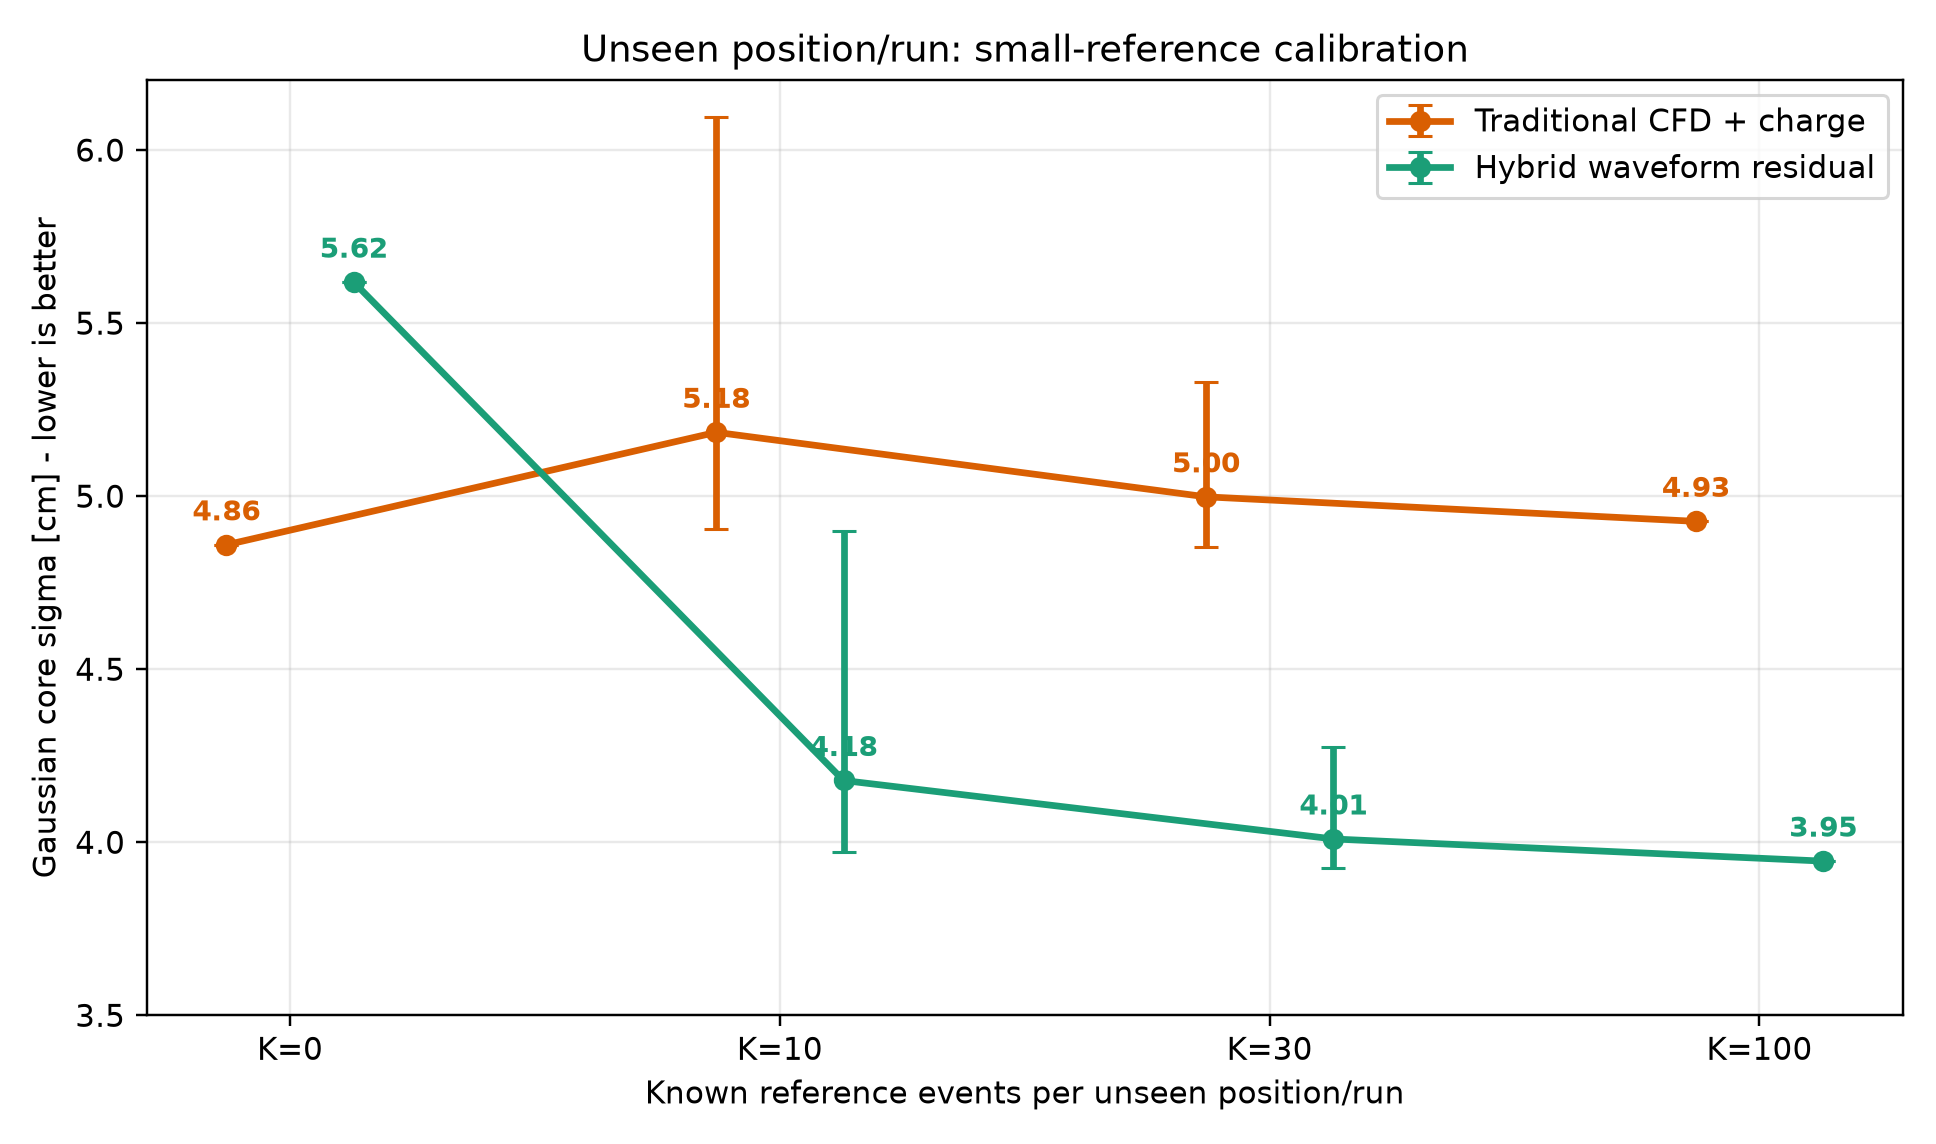
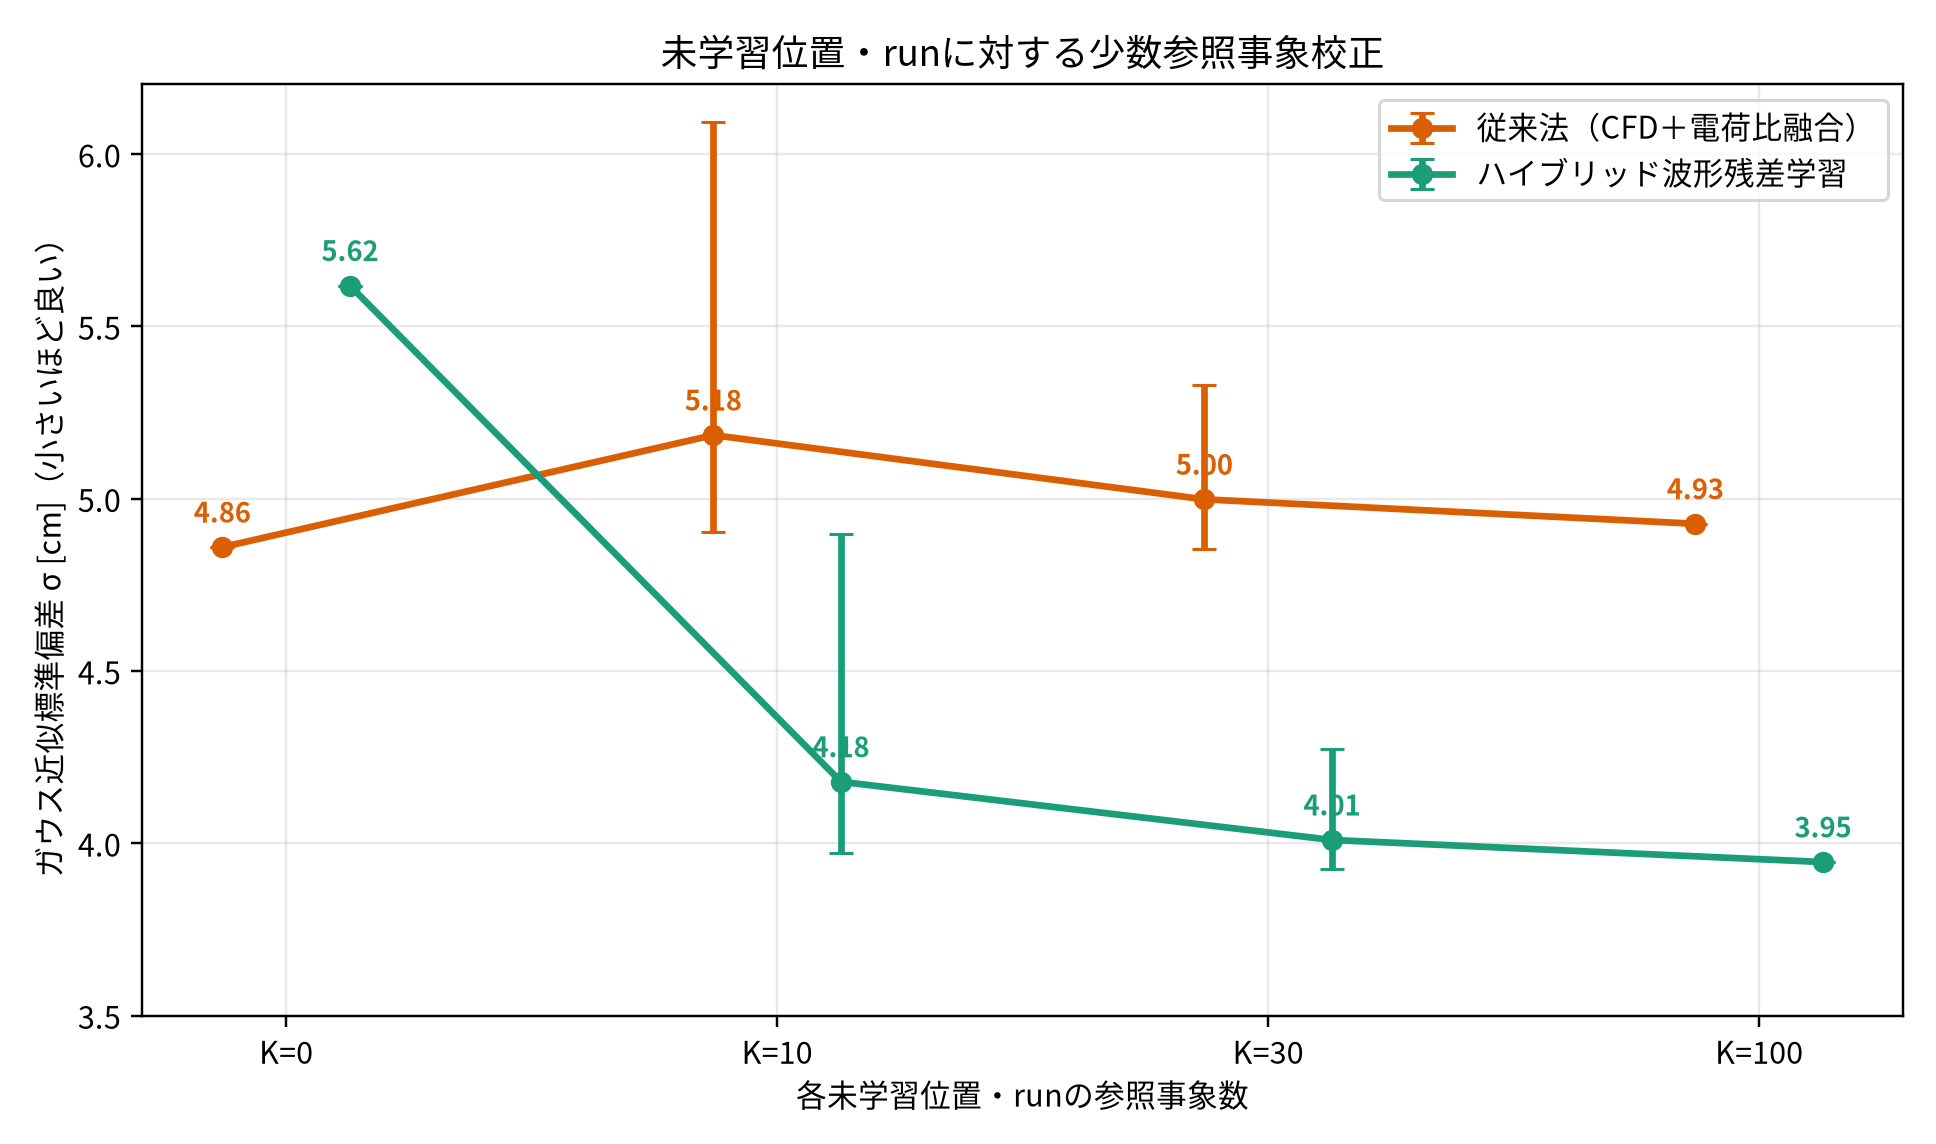
.

diff --git a/Scintillator_Project/src/scripts/build_ohba_hybrid_report.py b/Scintillator_Project/src/scripts/build_ohba_hybrid_report.py
@@ -45,8 +45,8 @@ def draw_calibration_transfer(rows: list[dict[str, object]], output: Path) -> No
     offsets = (-0.13, 0.13)
     fig, ax = plt.subplots(figsize=(8.8, 5.2))
     for (label, color, key), offset in zip((
-        ("Traditional CFD + charge", "#d95f02", "traditional_sigma_cm"),
-        ("Hybrid waveform residual", "#1b9e77", "hybrid_sigma_cm"),
+        ("従来法（CFD＋電荷比融合）", "#d95f02", "traditional_sigma_cm"),
+        ("ハイブリッド波形残差学習", "#1b9e77", "hybrid_sigma_cm"),
     ), offsets):
         stats = np.asarray([row[key] for row in rows], dtype=np.float64)
         median = stats[:, 1]
@@ -57,9 +57,9 @@ def draw_calibration_transfer(rows: list[dict[str, object]], output: Path) -> No
             ax.annotate(f"{value:.2f}", (coordinate, value), xytext=(0, 8), textcoords="offset points",
                         ha="center", color=color, fontsize=9, fontweight="bold")
     ax.set_xticks(x, [f"K={value}" for value in k])
-    ax.set_xlabel("Known reference events per unseen position/run")
-    ax.set_ylabel("Gaussian core sigma [cm] - lower is better")
-    ax.set_title("Unseen position/run: small-reference calibration")
+    ax.set_xlabel("各未学習位置・runの参照事象数")
+    ax.set_ylabel("ガウス近似標準偏差 σ [cm]（小さいほど良い）")
+    ax.set_title("未学習位置・runに対する少数参照事象校正")
     ax.set_ylim(bottom=3.5)
     ax.grid(alpha=0.28)
     ax.legend()
@@ -77,17 +77,17 @@ def draw_position_holdout(audit: dict[str, object], output: Path) -> None:
     traditional_bias = np.asarray([row["traditional_bias_cm"] for row in rows], dtype=float)
     bias = np.asarray([row["hybrid_bias_cm"] for row in rows], dtype=float)
     fig, axes = plt.subplots(2, 1, figsize=(10.2, 6.8), sharex=True, gridspec_kw={"height_ratios": [2, 1]})
-    axes[0].plot(x, traditional, "o-", color="#d95f02", label="Traditional")
-    axes[0].plot(x, hybrid, "o-", color="#1b9e77", label="Hybrid")
-    axes[0].set_ylabel("Gaussian core sigma [cm]")
-    axes[0].set_title("Complete unseen-position/run test")
+    axes[0].plot(x, traditional, "o-", color="#d95f02", label="従来法")
+    axes[0].plot(x, hybrid, "o-", color="#1b9e77", label="ハイブリッド")
+    axes[0].set_ylabel("ガウス近似標準偏差 σ [cm]")
+    axes[0].set_title("未学習位置・runの完全評価")
     axes[0].grid(alpha=0.28)
     axes[0].legend()
     axes[1].axhline(0.0, color="black", linewidth=0.8)
-    axes[1].bar(x - 0.18, traditional_bias, width=0.36, color="#d95f02", label="Traditional")
-    axes[1].bar(x + 0.18, bias, width=0.36, color="#1b9e77", label="Hybrid")
-    axes[1].set_ylabel("Mean residual / bias [cm]")
-    axes[1].set_xlabel("Held-out position [cm]")
+    axes[1].bar(x - 0.18, traditional_bias, width=0.36, color="#d95f02", label="従来法")
+    axes[1].bar(x + 0.18, bias, width=0.36, color="#1b9e77", label="ハイブリッド")
+    axes[1].set_ylabel("平均残差（バイアス）[cm]")
+    axes[1].set_xlabel("未学習位置 [cm]")
     axes[1].set_xticks(x, positions)
     axes[1].grid(axis="y", alpha=0.28)
     axes[1].legend(ncol=2)
@@ -159,7 +159,7 @@ def main() -> None:
 
 再現値は公開値 4.93 cm と整合し、新手法との比較基準として利用できます。
 
-## Hybrid waveform residual model
+## ハイブリッド波形残差学習 model
 
 Hybrid は同じ従来法の位置推定値を基準とし、2 チャンネル波形 ROI と非ラベル物理特徴量から残差のみを学習します。位置ラベルは教師値であり、入力特徴量には含めません。
 

diff --git a/Scintillator_Project/src/scripts/plot_ohba_learning_history.py b/Scintillator_Project/src/scripts/plot_ohba_learning_history.py
@@ -25,16 +25,16 @@ def main() -> None:
     output = args.output or args.history.with_name("learning_curve.png")
     fig, axes = plt.subplots(1, 2, figsize=(10.0, 4.0))
     axes[0].plot(epoch, train_loss, color="#1b9e77")
-    axes[0].set_xlabel("Epoch")
-    axes[0].set_ylabel("Training loss")
+    axes[0].set_xlabel("エポック")
+    axes[0].set_ylabel("学習損失")
     axes[0].grid(alpha=0.3)
     axes[1].plot(epoch, val_rmse, color="#7570b3")
-    axes[1].scatter([epoch[best]], [val_rmse[best]], color="#d95f02", zorder=3, label="Best checkpoint")
-    axes[1].set_xlabel("Epoch")
-    axes[1].set_ylabel("Validation RMSE [cm]")
+    axes[1].scatter([epoch[best]], [val_rmse[best]], color="#d95f02", zorder=3, label="最良チェックポイント")
+    axes[1].set_xlabel("エポック")
+    axes[1].set_ylabel("検証RMSE [cm]")
     axes[1].grid(alpha=0.3)
     axes[1].legend()
-    fig.suptitle("Hybrid waveform residual training")
+    fig.suptitle("ハイブリッド波形残差学習の収束")
     fig.tight_layout()
     fig.savefig(output, dpi=220)
     plt.close(fig)

diff --git a/Scintillator_Project/src/scripts/train_ohba_quality_selected_hybrid.py b/Scintillator_Project/src/scripts/train_ohba_quality_selected_hybrid.py
@@ -270,13 +270,13 @@ def plot_result(
     centers = (edges[:-1] + edges[1:]) / 2.0
     fig, ax = plt.subplots(figsize=(8.4, 5.2))
     ax.step(centers, baseline_fit["histogram_counts"], where="mid", color="#d95f02", label=(
-        f"Traditional selected baseline, sigma={baseline_fit['sigma_cm']:.3f} cm"
+        f"従来法（CFD＋電荷比融合）、σ={baseline_fit['sigma_cm']:.3f} cm"
     ))
     ax.step(centers, model_fit["histogram_counts"], where="mid", color="#1b9e77", label=(
-        f"Hybrid waveform model, sigma={model_fit['sigma_cm']:.3f} cm"
+        f"ハイブリッド波形残差学習、σ={model_fit['sigma_cm']:.3f} cm"
     ))
-    ax.set_xlabel("Position residual [cm]")
-    ax.set_ylabel("Events / 0.5 cm")
+    ax.set_xlabel("位置残差 [cm]")
+    ax.set_ylabel("事象数 / 0.5 cm")
     ax.set_title(title)
     ax.grid(alpha=0.3)
     ax.legend()

diff --git a/Scintillator_Project/src/scripts/render_ohba_residual_comparison.py b/Scintillator_Project/src/scripts/render_ohba_residual_comparison.py
@@ -14,7 +14,7 @@ def main() -> None:
     parser = argparse.ArgumentParser(description=__doc__)
     parser.add_argument("predictions", type=Path)
     parser.add_argument("--output", type=Path, required=True)
-    parser.add_argument("--title", default="All-usable same-position held-out test")
+    parser.add_argument("--title", default="同一測定位置分布での独立テスト")
     args = parser.parse_args()
     with np.load(args.predictions) as data:
         plot_result(

diff --git a/Scintillator_Project/results/ohba_hybrid_report_20260922/report.md b/Scintillator_Project/results/ohba_hybrid_report_20260922/report.md
@@ -19,7 +19,7 @@
 
 再現値は公開値 4.93 cm と整合し、新手法との比較基準として利用できます。
 
-## Hybrid waveform residual model
+## ハイブリッド波形残差学習 model
 
 Hybrid は同じ従来法の位置推定値を基準とし、2 チャンネル波形 ROI と非ラベル物理特徴量から残差のみを学習します。位置ラベルは教師値であり、入力特徴量には含めません。
 
